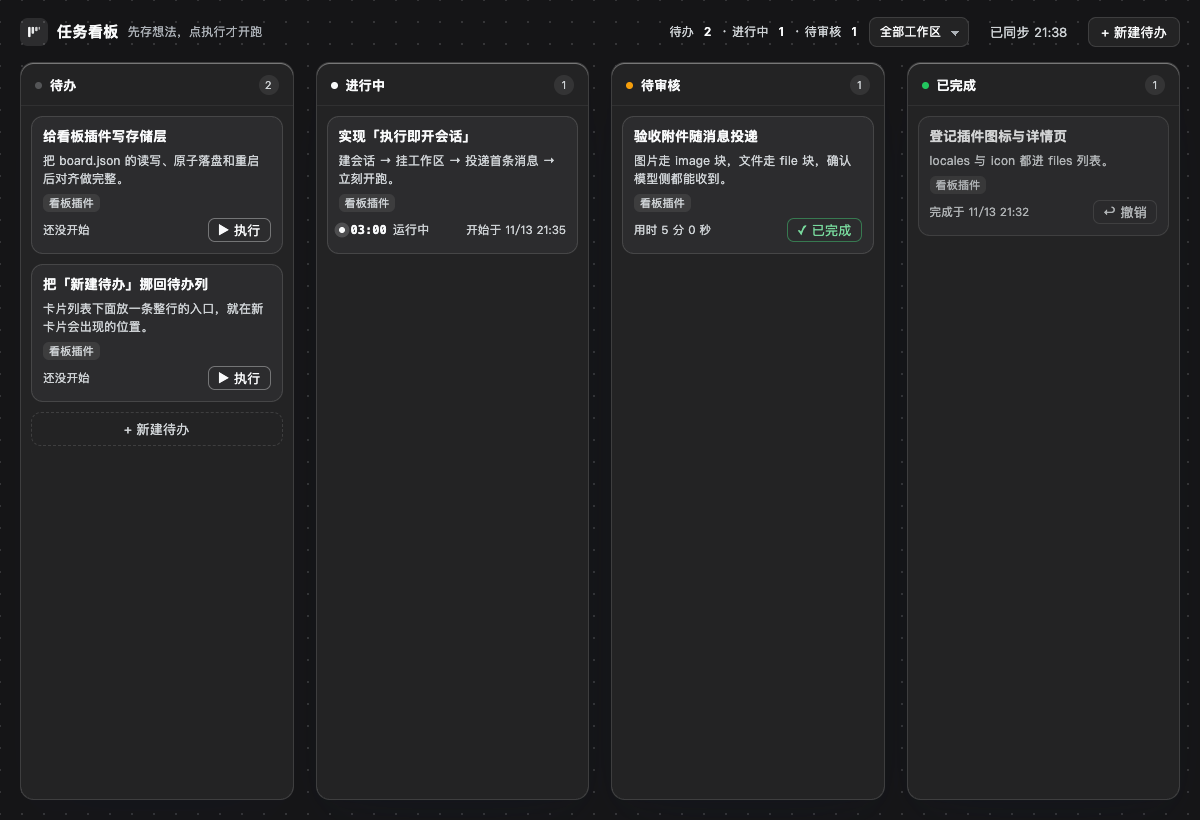
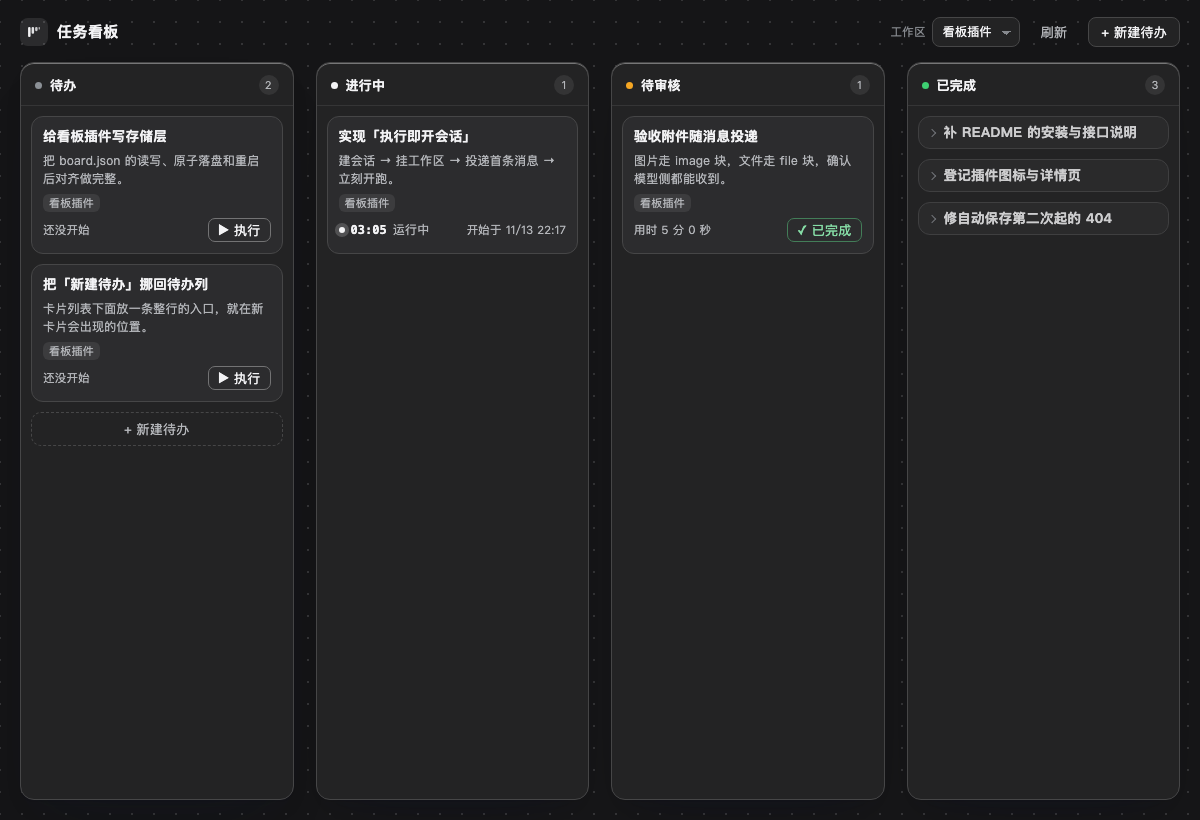
发布 v0.1.6：已完成列默认折叠成标题行

diff --git a/client.js b/client.js
@@ -66,8 +66,8 @@ window.__ModuleLoader__.load({
         id: 'done',
         zh: '已完成',
         en: 'Done',
-        hintZh: '你亲手点过完成的卡片。之后在会话里继续聊，它会自动回到进行中。',
-        hintEn: 'Cards you marked done. Continuing the conversation moves them back.',
+        hintZh: '你亲手点过完成的卡片，默认折成一行标题；点标题展开详情。之后在会话里继续聊，它会自动回到进行中。',
+        hintEn: 'Cards you marked done, folded to a title line by default. Click a title to expand. Continuing the conversation moves them back.',
       },
     ]
 
@@ -282,6 +282,37 @@ window.__ModuleLoader__.load({
 .fxk-card:hover { border-color: color-mix(in srgb, var(--fxk-border) 45%, var(--fxk-text-3)); transform: translateY(-1px); }
 .fxk-card:active { transform: translateY(0); }
 .fxk-card[data-state="done"] { opacity: .82; }
+/* 已完成列的折叠态：只留一行标题，点开才展开成完整卡片 */
+.fxk-card-folded {
+  flex-direction: row; align-items: center; gap: 9px;
+  min-height: 32px; padding: 6px 10px;
+}
+.fxk-card-folded[data-state="done"]:hover { opacity: .96; }
+.fxk-card-title-folded {
+  display: block; flex: 1 1 auto; min-width: 0;
+  font-size: 12.5px; line-height: 17px; font-weight: 520;
+  white-space: nowrap; overflow: hidden; text-overflow: ellipsis;
+  -webkit-line-clamp: unset; word-break: normal;
+}
+.fxk-caret {
+  flex: none; width: 6px; height: 6px;
+  border-right: 1.5px solid var(--fxk-text-3);
+  border-bottom: 1.5px solid var(--fxk-text-3);
+  transform: rotate(-45deg);
+  transition: transform 140ms ease, border-color 120ms ease;
+}
+.fxk-caret-open { transform: rotate(45deg); }
+.fxk-card-folded:hover .fxk-caret { border-color: var(--fxk-text-2); }
+/* 展开态的折叠控件：标题行右侧的小箭头 */
+.fxk-card-title-row { display: flex; align-items: flex-start; gap: 6px; }
+.fxk-card-title-row .fxk-card-title { flex: 1 1 auto; min-width: 0; }
+.fxk-card-collapse {
+  flex: none; width: 20px; height: 20px; margin: -2px -3px 0 0; padding: 0;
+  display: inline-flex; align-items: center; justify-content: center;
+  border: 0; border-radius: 6px; background: transparent;
+  color: var(--fxk-text-3); cursor: pointer;
+}
+.fxk-card-collapse:hover { background: var(--fxk-hover); color: var(--fxk-text); }
 .fxk-card-title {
   font-size: 13.5px; line-height: 19px; font-weight: 560; color: var(--fxk-text);
   display: -webkit-box; -webkit-line-clamp: 2; -webkit-box-orient: vertical; overflow: hidden;
@@ -484,6 +515,7 @@ window.__ModuleLoader__.load({
   .fxk-skeleton { animation: none; }
   .fxk-overlay, .fxk-sheet, .fxk-toast { animation: none; }
   .fxk-card:hover { transform: none; }
+  .fxk-caret { transition: none; }
 }
 `
 
@@ -623,6 +655,8 @@ window.__ModuleLoader__.load({
       const [modal, setModal] = useState(null)
       const [busy, setBusy] = useState('')
       const [toast, setToast] = useState(null)
+      // 「已完成」列默认折叠成标题行；只有用户点开的那几张会展开，状态只活在这个面板里。
+      const [expandedDone, setExpandedDone] = useState(() => new Set())
       const [syncedAt, setSyncedAt] = useState(0)
       const [now, setNow] = useState(() => Date.now())
       const skewRef = useRef(0)
@@ -842,6 +876,16 @@ window.__ModuleLoader__.load({
         [notify],
       )
 
+      /** 已完成卡片：点标题展开成完整卡片，再点标题旁的箭头折回去。 */
+      const toggleDoneExpanded = useCallback((cardId) => {
+        setExpandedDone((previous) => {
+          const next = new Set(previous)
+          if (next.has(cardId)) next.delete(cardId)
+          else next.add(cardId)
+          return next
+        })
+      }, [])
+
       const visibleCards = useMemo(() => {
         return cards.filter((card) => {
           if (activeWorkspaceId === BUCKET_NONE) return !card.workspaceId
@@ -881,26 +925,82 @@ window.__ModuleLoader__.load({
 
       const renderCard = (card) => {
         const state = card.status
+        const isDone = state === 'done'
+        const isFolded = isDone && !expandedDone.has(card.id)
         const title = workspaceTitle(card.workspaceId)
         const attachmentCount = (card.attachments || []).length
+
+        // 已完成列默认只留标题行：整行点开才展开成完整卡片，避免已归档的卡片一直占满一整列。
+        if (isFolded) {
+          return h(
+            'div',
+            {
+              key: card.id,
+              className: 'fxk-card fxk-card-folded',
+              'data-state': state,
+              role: 'button',
+              tabIndex: 0,
+              'aria-expanded': 'false',
+              'aria-label': t(`${card.title}（已折叠，点击展开）`, `${card.title} (collapsed, click to expand)`),
+              title: t('点击展开', 'Click to expand'),
+              onClick: () => toggleDoneExpanded(card.id),
+              onKeyDown: (event) => {
+                // 整行是 role=button；内部按钮（展开后的折叠箭头等）自己处理键盘，不再冒泡触发整卡。
+                if (event.target !== event.currentTarget) return
+                if (event.key === 'Enter' || event.key === ' ') {
+                  event.preventDefault()
+                  toggleDoneExpanded(card.id)
+                }
+              },
+            },
+            h('span', { className: 'fxk-caret', 'aria-hidden': 'true' }),
+            h('span', { className: 'fxk-card-title fxk-card-title-folded' }, card.title),
+          )
+        }
+
+        const titleNode = isDone
+          ? h(
+              'div',
+              { className: 'fxk-card-title-row' },
+              h('div', { className: 'fxk-card-title' }, card.title),
+              h(
+                'button',
+                {
+                  type: 'button',
+                  className: 'fxk-card-collapse',
+                  'aria-expanded': 'true',
+                  'aria-label': t('折叠这张卡片', 'Collapse this card'),
+                  title: t('折叠', 'Collapse'),
+                  onClick: (event) => {
+                    event.stopPropagation()
+                    toggleDoneExpanded(card.id)
+                  },
+                },
+                h('span', { className: 'fxk-caret fxk-caret-open', 'aria-hidden': 'true' }),
+              ),
+            )
+          : h('div', { className: 'fxk-card-title' }, card.title)
+
         return h(
           'div',
           {
             key: card.id,
-            className: 'fxk-card',
+            className: isDone ? 'fxk-card fxk-card-expanded' : 'fxk-card',
             'data-state': state,
             role: 'button',
             tabIndex: 0,
             'aria-label': card.title,
             onClick: () => openCard(card),
             onKeyDown: (event) => {
+              // 内部按钮（折叠箭头 / 撤销 / 执行）自己处理键盘，不再冒泡触发「打开会话」。
+              if (event.target !== event.currentTarget) return
               if (event.key === 'Enter' || event.key === ' ') {
                 event.preventDefault()
                 openCard(card)
               }
             },
           },
-          h('div', { className: 'fxk-card-title' }, card.title),
+          titleNode,
           card.body ? h('div', { className: 'fxk-card-excerpt' }, excerptOf(card.body)) : null,
           h(
             'div',

diff --git a/README.md b/README.md
@@ -29,6 +29,13 @@ DeepSeek Harness（DSH）Web 插件的任务看板：侧边栏一个入口，四
 
 ![深色：同一结构靠 surface 与边框浮起](doc/界面%20-%202026-11-13/深色.png)
 
+「已完成」列默认折成一行标题（约 32px 高），一屏能放下更多历史卡片；点任意一行才展开成完整卡片，
+展开后标题右侧的小箭头可以再折回去。展开状态只留在当前面板里，刷新后全部回到折叠态。
+
+![已完成列：默认折成标题行，点开最上面一张后展开成完整卡片](doc/界面%20-%202026-11-13/已完成折叠-浅色.png)
+
+![深色：同一折叠态与展开态](doc/界面%20-%202026-11-13/已完成折叠-深色.png)
+
 深色下新建待办的侧栏：主按钮用 `label-primary` / `label-primary-foreground` 这对「墨 / 纸」token，
 不会出现品牌色和底色撞在一起的黑底黑字：
 
@@ -72,6 +79,7 @@ dsh plugin --profile desktop add link:/Users/xianglifei/Code/Github/dsh-kanban-f
 
 - 任何一次 turn 结束（正常/报错/被中止）都进待审核；报错会在卡片上留一个「有报错」徽标。
 - 已完成不是终点：用户在会话里继续说话 → 自动回进行中 → 跑完再回待审核。
+- 已完成卡片默认折叠成标题行，点标题展开详情 / 操作按钮；刷新后重新折叠。
 - 本期不支持拖拽或手动改状态。
 
 ## 自动保存

diff --git a/CHANGELOG.md b/CHANGELOG.md
@@ -1,5 +1,13 @@
 # 变更记录
 
+## 0.1.6 — 2026-11-13
+
+- 「已完成」列卡片默认折叠成一行标题（约 32px 高）：点整行才展开成完整卡片（正文摘要、工作区 / 附件
+  徽标、完成时间与「撤销 / 重新执行」），展开后标题右侧的小箭头可以把卡片再折回去；刷新后回到全折叠。
+- 折叠只作用于已完成列，待办 / 进行中 / 待审核仍是完整卡片；每列计数、排序和状态规则不变。
+- 已完成列空态提示补上折叠说明；README 更新界面说明与状态规则，新增浅 / 深色折叠态截图，
+  重拍「浅色 / 深色」全景图，`docs/preview.svg` 的已完成列同步画成折叠行；版本号同步到 0.1.6。
+
 ## 0.1.5 — 2026-11-13
 
 - 新增卡片短编号 `fx-N`：新建卡片落库时由 Host 分配，只增不复用，删卡不回收空号；
